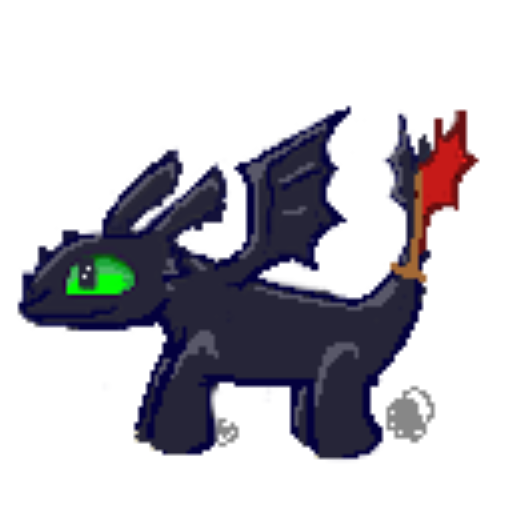
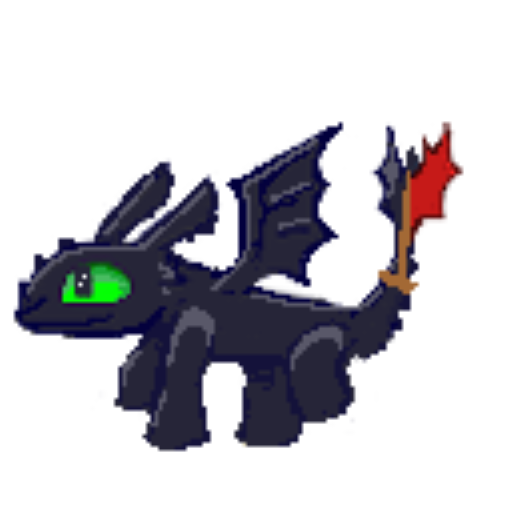
nova animação de voando e de andando

Changed region(s): [[0.0, 0.1875, 0.9375, 0.9062]]

diff --git a/extension.js b/extension.js
@@ -20,153 +20,107 @@ import { Extension } from "resource:///org/gnome/shell/extensions/extension.js";
  * que reage a eventos de hardware cursor por meio de cálculos cinemáticos e vetoriais bidimensionais.
  */
 export default class BanguelaExtension extends Extension {
-  /**
-   * Inicializa o módulo e aloca recursos no subsistema gráfico do compositor (Mutter).
-   * Estabelece as conexões de sinais globais, I/O e o loop principal de física.
-   */
   enable() {
-    // Inicialização explícita de referências na memória para prevenir acessos a ponteiros órfãos
     this._fullscreenSignalId = null;
     this._settingsChangedId = null;
     this._timeoutId = null;
     this._actor = null;
 
-    // Flag de controle de renderização (culling)
     this._isHiddenByFullscreen = false;
 
     // Vetores bidimensionais de posicionamento global
     this._currentPos = { x: 0, y: 0 };
-
-    // Memória do ponteiro (Cinemática)
     this._lastMousePos = { x: 0, y: 0 };
 
-    // Relógio referencial para cálculo de DeltaTime inter-frames
     this._lastFrameTime = GLib.get_monotonic_time() / 1000000;
 
-    // Configuração inicial da Máquina de Estados Finita (FSM)
     this._currentState = "sitting";
     this._stateStartTime = this._lastFrameTime;
 
-    // Estado das transformações afins da matriz de renderização
     this._lastScaleX = 1;
+    this._lastDirX = 1;
     this._lastAngle = 0;
-
-    // Dicionário de texturas (caching em RAM)
+    this._targetAngle = 0;
+    
     this._gicons = {};
 
-    /**
-     * Tabela de roteamento de animações.
-     * @typedef {Object} AnimProps
-     * @property {string} prefix - Prefixo base do nome do arquivo no disco.
-     * @property {number} fps - Taxa de quadros alvo da interpolação.
-     * @property {number} frameCount - Quantidade total de assets que compõem o ciclo.
-     */
     this.ANIMATION_DATA = {
       sitting: { prefix: "SENTADO", fps: 1, frameCount: 1 },
       getting_up: { prefix: "LEVANTANDO", fps: 24, frameCount: 13 },
-      walking: { prefix: "BANGUELA", fps: 15, frameCount: 39 },
-      flying: { prefix: "VOANDO", fps: 20, frameCount: 7 },
+      walking: { prefix: "BANGUELA", fps: 15, frameCount: 21 },
+      flying: { prefix: "VOANDO", fps: 13, frameCount: 6 },
       sitting_down: { prefix: "SENTANDO", fps: 24, frameCount: 8 },
     };
 
-    // Binding com as configurações de usuário via esquema dconf/GSettings
     this._settings = this.getSettings("org.gnome.shell.extensions.banguela");
 
-    /**
-     * Parâmetros de calibração física e limites topológicos.
-     * Contém getters para garantir tempo de leitura (JIT) das chaves do GSettings.
-     */
     this.CONFIG = {
       STOP_DISTANCE: 40,
       WAKE_DISTANCE: 60,
       FLY_DISTANCE: 250,
-      STOP_VELOCITY: 50, // Cinemática: Threshold de velocidade do ponteiro (pixels/segundo) para assumir "repouso"
-      TARGET_OFFSET: 30, // Geometria: Distância mínima (raio em pixels) para manter de distância absoluta do centro do cursor
+      STOP_VELOCITY: 50,
+      TARGET_OFFSET: 30,
       get WALK_SPEED() {
-        // Multiplicador real de velocidade ajustado para cálculo baseado em DeltaTime (pixels/seg)
         return (this._s.get_double("walk-speed") || 2.0) * 150;
       },
       get FLY_SPEED() {
         return (this._s.get_double("fly-speed") || 5.0) * 150;
       },
       get PET_SIZE() {
-        // Fallback de sanidade de 48px caso o schema retorne chaves vazias/nulas
         const size = this._s.get_int("pet-size");
         return size > 0 ? size : 48;
       },
       _s: this._settings,
     };
 
-    // Alocação do nó no Scene Graph do GNOME
     this._actor = new St.Icon({
       style_class: "banguela-actor",
       icon_size: this.CONFIG.PET_SIZE,
-      reactive: false, // Desativa captura de eventos de ponteiro no ator
+      reactive: false,
     });
 
-    // Reancora a matriz de transformação (escala/rotação) para o centro absoluto do plano (0.5, 0.5)
     this._actor.pivot_point = new Graphene.Point({ x: 0.5, y: 0.5 });
 
-    // Injeção gráfica na interface principal (UI Group)
     Main.layoutManager.uiGroup.add_child(this._actor);
-    this._actor.show(); // Força o mapeamento inicial pela GPU
+    this._actor.show();
 
     this._loadIcons();
 
-    // Definição do ponto de "spawn" vetorial com proteção contra indefinição do layoutManager (Wayland boot)
     const monitor = Main.layoutManager.primaryMonitor ||
-      Main.layoutManager.monitors[0] || {
-        x: 0,
-        y: 0,
-        width: 1920,
-        height: 1080,
-      };
+      Main.layoutManager.monitors[0] || { x: 0, y: 0, width: 1920, height: 1080 };
 
     this._currentPos.x = monitor.x + monitor.width / 2;
     this._currentPos.y = monitor.y + monitor.height / 2;
 
-    // Sincroniza ponteiro inicial para evitar "pulo" de velocidade no primeiro quadro
     const [startX, startY] = global.get_pointer();
     this._lastMousePos.x = startX;
     this._lastMousePos.y = startY;
 
-    // Registro de callback global para supressão da extensão em mídias/jogos imersivos
     this._fullscreenSignalId = global.display.connect(
       "in-fullscreen-changed",
       this._onFullscreenChanged.bind(this),
     );
 
-    // Main Game Loop: Delega a rotina iterativa para uma GSource independente da renderização do display
-    // a fim de contornar a suspensão do frame clock do Clutter no Wayland.
     this._timeoutId = GLib.timeout_add(GLib.PRIORITY_DEFAULT, 16, () => {
       this._updateFrame();
       return GLib.SOURCE_CONTINUE;
     });
 
-    // Registro de reatividade (Observer) às modificações da chave de tamanho do ator
     this._settingsChangedId = this._settings.connect(
       "changed::pet-size",
       () => {
-        if (this._actor) this._actor.icon_size = this.CONFIG.PET_SIZE;
+        if (this._actor) {
+          this._actor.icon_size = this.CONFIG.PET_SIZE;
+        }
       },
     );
   }
 
-  /**
-   * Calcula o tempo absoluto de um ciclo de animação.
-   * @param {string} state - Chave de roteamento em ANIMATION_DATA
-   * @returns {number} Duração total em segundos.
-   */
   _getAnimDuration(state) {
     const anim = this.ANIMATION_DATA[state];
     return anim.frameCount / anim.fps;
   }
 
-  /**
-   * Rotina de desmontagem (Tear-down).
-   * Invoca o Garbage Collector de forma determinística removendo as fontes
-   * da thread do GLib e destruindo referências C vinculadas ao GJS.
-   */
   disable() {
     if (this._timeoutId) {
       GLib.source_remove(this._timeoutId);
@@ -184,18 +138,14 @@ export default class BanguelaExtension extends Extension {
     }
 
     if (this._actor) {
-      this._actor.destroy(); // Libera o nó do grafo
+      this._actor.destroy();
       this._actor = null;
     }
 
     this._settings = null;
-    this._gicons = {}; // Esvazia o cache em memória RAM
+    this._gicons = {};
   }
 
-  /**
-   * Handler invocado mediante alteração de janelas em tela cheia (Compositor Level).
-   * Realiza a ocultação condicional (culling) do ator para preservar cycles de CPU.
-   */
   _onFullscreenChanged() {
     let isAnyFullscreen = false;
     const monitorsCount = Main.layoutManager.monitors.length;
@@ -215,31 +165,22 @@ export default class BanguelaExtension extends Extension {
       } else {
         this._actor.show();
 
-        // Recalibra as coordenadas pós-supressão somando um offset aleatório para evitar colisão imediata e teletransporte
         const [x, y] = global.get_pointer();
-        const offsetX =
-          (Math.random() > 0.5 ? 1 : -1) * (150 + Math.random() * 150);
-        const offsetY =
-          (Math.random() > 0.5 ? 1 : -1) * (150 + Math.random() * 150);
+        const offsetX = (Math.random() > 0.5 ? 1 : -1) * (150 + Math.random() * 150);
+        const offsetY = (Math.random() > 0.5 ? 1 : -1) * (150 + Math.random() * 150);
 
         this._currentPos.x = x + offsetX;
         this._currentPos.y = y + offsetY;
 
-        // Zera cinemática no respawn
         this._lastMousePos.x = x;
         this._lastMousePos.y = y;
 
-        // Force-feed FSM: Garante transição para movimento contínuo
         this._currentState = "flying";
         this._stateStartTime = GLib.get_monotonic_time() / 1000000;
       }
     }
   }
 
-  /**
-   * Rotina de leitura síncrona I/O.
-   * Constrói objetos Gio.FileIcon e os mantém cacheados na propriedade de dicionário `_gicons`.
-   */
   _loadIcons() {
     for (let state in this.ANIMATION_DATA) {
       this._gicons[state] = [];
@@ -250,7 +191,6 @@ export default class BanguelaExtension extends Extension {
         const fileName = `${anim.prefix}_${i.toString().padStart(4, "0")}.png`;
         const file = stateDir.get_child(fileName);
 
-        // Sanity Check: Verifica disponibilidade estrutural no sistema de arquivos
         if (!file.query_exists(null)) {
           console.warn(
             `[Banguela Extension] ERRO CRÍTICO DE ASSET: Imagem não encontrada: ${file.get_path()}`,
@@ -262,57 +202,42 @@ export default class BanguelaExtension extends Extension {
     }
   }
 
-  /**
-   * Operação atômica de transição na Máquina de Estados Finita.
-   * @param {string} newState - Chave identificadora do próximo estado.
-   * @param {number} timestamp - Marcador de tempo atual (Monotonic Time).
-   */
   _changeState(newState, timestamp) {
     if (this._currentState === newState) return;
     this._currentState = newState;
-    this._stateStartTime = timestamp; // Reseta o relógio base para interpolação
+    this._stateStartTime = timestamp;
   }
 
-  /**
-   * Pipeline de Processamento Principal (Physics and Rendering Loop).
-   * Engloba: Atualização cinemática, Resolução de FSM e Mapeamento de Texturas na Matrix de Transformação.
-   */
+  _lerp(start, end, factor) {
+    return start + (end - start) * factor;
+  }
+
   _updateFrame() {
     if (this._isHiddenByFullscreen || !this._actor) return;
 
-    // Obtém as coordenadas globais e o relógio monolítico do sistema operacional
     const [x, y] = global.get_pointer();
     const timestamp = GLib.get_monotonic_time() / 1000000;
 
-    // Cálculo estrito de DeltaTime (Frame-Rate Independent Movement)
     const rawDeltaTime = timestamp - this._lastFrameTime;
-    const deltaTime = Math.min(rawDeltaTime, 0.1); // Cap de 100ms
+    const deltaTime = Math.min(rawDeltaTime, 0.1); 
     this._lastFrameTime = timestamp;
 
-    // --- MÓDULO CINEMÁTICO DO ALVO ---
     const mDx = x - this._lastMousePos.x;
     const mDy = y - this._lastMousePos.y;
 
-    // Normalização cinemática: Extrai a velocidade real em pixels por segundo
     let mouseVelocity = 0;
     if (deltaTime > 0) {
       mouseVelocity = Math.sqrt(mDx * mDx + mDy * mDy) / deltaTime;
     }
 
-    // Atualiza o cache do estado inercial do ponteiro
     this._lastMousePos.x = x;
     this._lastMousePos.y = y;
-    // ------------------------------------
 
-    // --- MÓDULO TOPOLÓGICO DO ATOR ---
     const dx = x - this._currentPos.x;
     const dy = y - this._currentPos.y;
     const distance = Math.sqrt(dx * dx + dy * dy);
 
-    // Resolução da tolerância anti-jitter
     if (distance > 0.5) {
-      // --- ROUTING DA MÁQUINA DE ESTADOS (FSM) ---
-
       if (
         this._currentState === "sitting" &&
         distance > this.CONFIG.WAKE_DISTANCE
@@ -332,46 +257,49 @@ export default class BanguelaExtension extends Extension {
         this._currentState === "walking" ||
         this._currentState === "flying"
       ) {
-        // Transição de parada.
         if (
           distance <= this.CONFIG.STOP_DISTANCE &&
           mouseVelocity < this.CONFIG.STOP_VELOCITY
         ) {
           this._changeState("sitting_down", timestamp);
-          this._lastAngle = 0;
+          this._targetAngle = 0; 
         } else {
           const shouldFly = distance > this.CONFIG.FLY_DISTANCE;
           this._changeState(shouldFly ? "flying" : "walking", timestamp);
 
-          // Cálculo do vetor velocidade escalar
           const speed =
             (shouldFly ? this.CONFIG.FLY_SPEED : this.CONFIG.WALK_SPEED) *
             deltaTime;
 
-          // --- CORREÇÃO DE SOBREPOSIÇÃO VETORIAL ---
-          // Impede que a integração da física empurre a âncora do ator diretamente
-          // para o centro do cursor do mouse, subtraindo o TARGET_OFFSET.
-          // O Math.max evita que um passo negativo empurre o ator para trás.
           const stepableDistance = Math.max(
             0,
             distance - this.CONFIG.TARGET_OFFSET,
           );
           const step = Math.min(speed, stepableDistance);
 
-          // Se step > 0, o ator se aproxima; caso contrário, a física o mantém 'orbitando'
           if (step > 0) {
             this._currentPos.x += (dx / distance) * step;
             this._currentPos.y += (dy / distance) * step;
           }
 
-          // Espelhamento lógico baseado na normal horizontal
-          this._lastScaleX = dx < 0 ? 1 : -1;
+          // CORREÇÃO: Hysteresis (Zona Morta) para evitar ricochete direcional em altas velocidades.
+          // Só inverte o eixo X se a distância horizontal (dx) for maior que 10 pixels.
+          // Caso contrário, mantém a última direção, prevenindo a tremedeira na escala.
+          if (Math.abs(dx) > 10) {
+            const currentDirX = dx < 0 ? 1 : -1;
+            this._lastScaleX = currentDirX;
 
-          // Cálculo do Pitch vetorial utilizando tangente de arco (Math.atan2).
-          this._lastAngle = Math.max(
-            -35,
-            Math.min(35, -Math.atan2(dy, Math.abs(dx)) * (180 / Math.PI)),
-          );
+            if (currentDirX !== this._lastDirX) {
+               this._lastAngle = 0;
+               this._targetAngle = 0;
+               this._lastDirX = currentDirX;
+            } else {
+               this._targetAngle = Math.max(
+                 -35,
+                 Math.min(35, -Math.atan2(dy, Math.abs(dx)) * (180 / Math.PI)),
+               );
+            }
+          }
         }
       } else if (this._currentState === "sitting_down") {
         if (
@@ -383,7 +311,7 @@ export default class BanguelaExtension extends Extension {
       }
     }
 
-    // --- PIPELINE DE RENDERIZAÇÃO E INTERPOLAÇÃO DE FRAMES ---
+    this._lastAngle = this._lerp(this._lastAngle, this._targetAngle, 10 * deltaTime);
 
     const icons = this._gicons[this._currentState];
 
@@ -392,13 +320,15 @@ export default class BanguelaExtension extends Extension {
       let idx = 0;
 
       if (anim.frameCount > 1) {
-        idx = Math.floor((timestamp - this._stateStartTime) * anim.fps);
-
-        idx =
-          this._currentState === "getting_up" ||
-          this._currentState === "sitting_down"
-            ? Math.min(idx, anim.frameCount - 1)
-            : idx % anim.frameCount;
+        const elapsedTime = timestamp - this._stateStartTime;
+        
+        if (this._currentState === "getting_up" || this._currentState === "sitting_down") {
+           idx = Math.floor(elapsedTime * anim.fps);
+           idx = Math.min(idx, anim.frameCount - 1);
+        } else {
+           const totalFramesElapsed = Math.floor(elapsedTime * anim.fps);
+           idx = totalFramesElapsed % anim.frameCount;
+        }
       }
 
       if (this._actor.gicon !== icons[idx]) this._actor.gicon = icons[idx];
